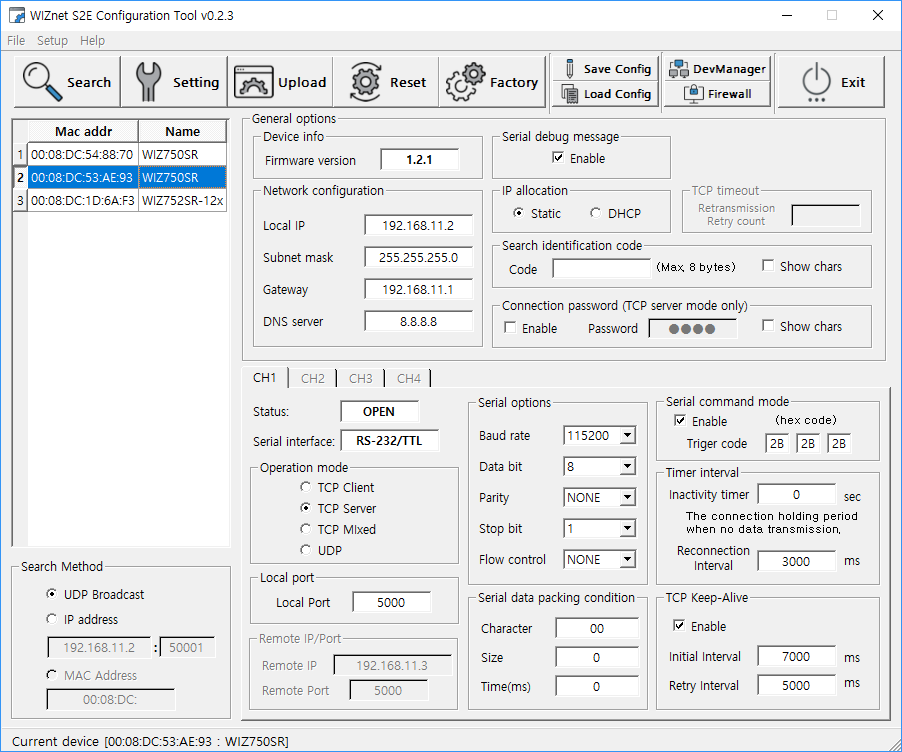
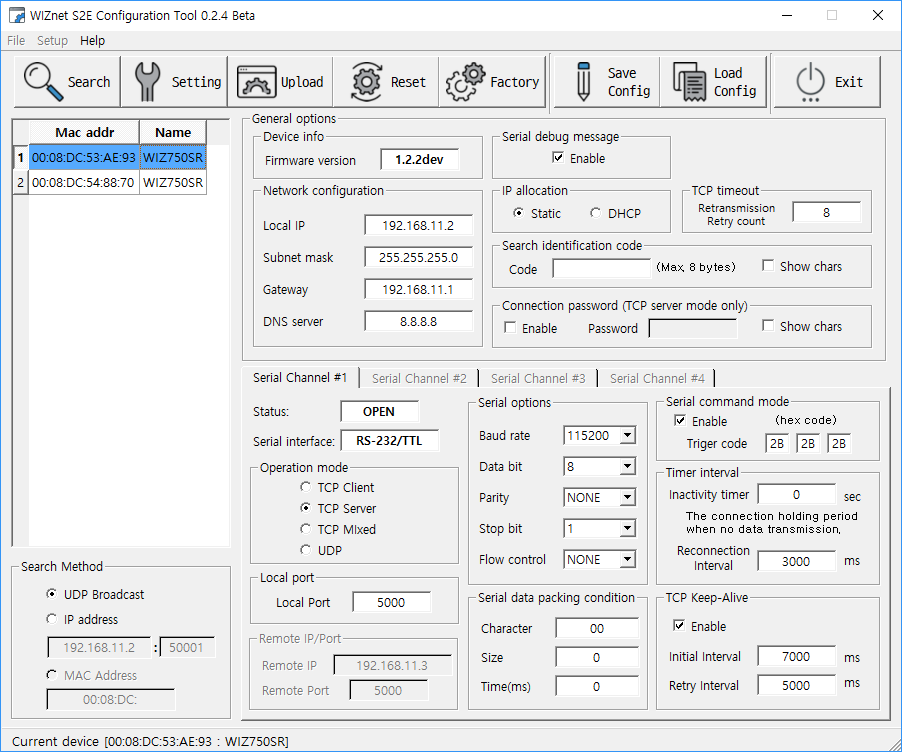
readme & image update

diff --git a/README.md b/README.md
@@ -2,7 +2,7 @@
   - [Environment](#environment)
 - [Support Devices](#support-devices)
 - [Wiki](#wiki)
-- [CLI Configuration Tool](#https://github.com/Wiznet/WIZnet-S2E-Tool)
+- [CLI Configuration Tool (External link)](https://github.com/Wiznet/WIZnet-S2E-Tool)
 - [TroubleShooting](#troubleshooting)
 
 
@@ -10,9 +10,7 @@
 WIZnet-S2E-Tool-GUI is Configuration Tool for WIZnet serial to ethernet devices. \
 Python interpreter based and it is platform independent. It works on version 3.6 python. 
 
-
 ![](https://github.com/Wiznet/WIZnet-S2E-Tool-GUI/blob/master/doc/images/wizconfig_main.png?raw=true)
-<!-- <img src="https://github.com/Wiznet/WIZnet-S2E-Tool-GUI/blob/master/doc/images/wizconfigv0.2.png" width="80%"></img> -->
 
 ## Environment
 
@@ -62,4 +60,11 @@ You can check the contents of configuration tool wiki on the [WIZnet-S2E-Tool-GU
 
 ----
 # TroubleShooting
-If you have any problems, please visit [WIZnet Forum](https://forum.wiznet.io/) and please let we know what the problem is.
+
+If you have any problems, use one of the links below and **please report the problem.**
+
+- [Github Issue page](https://github.com/Wiznet/WIZnet-S2E-Tool-GUI/issues)
+- [WIZnet Forum](https://forum.wiznet.io/)
+
+----
+